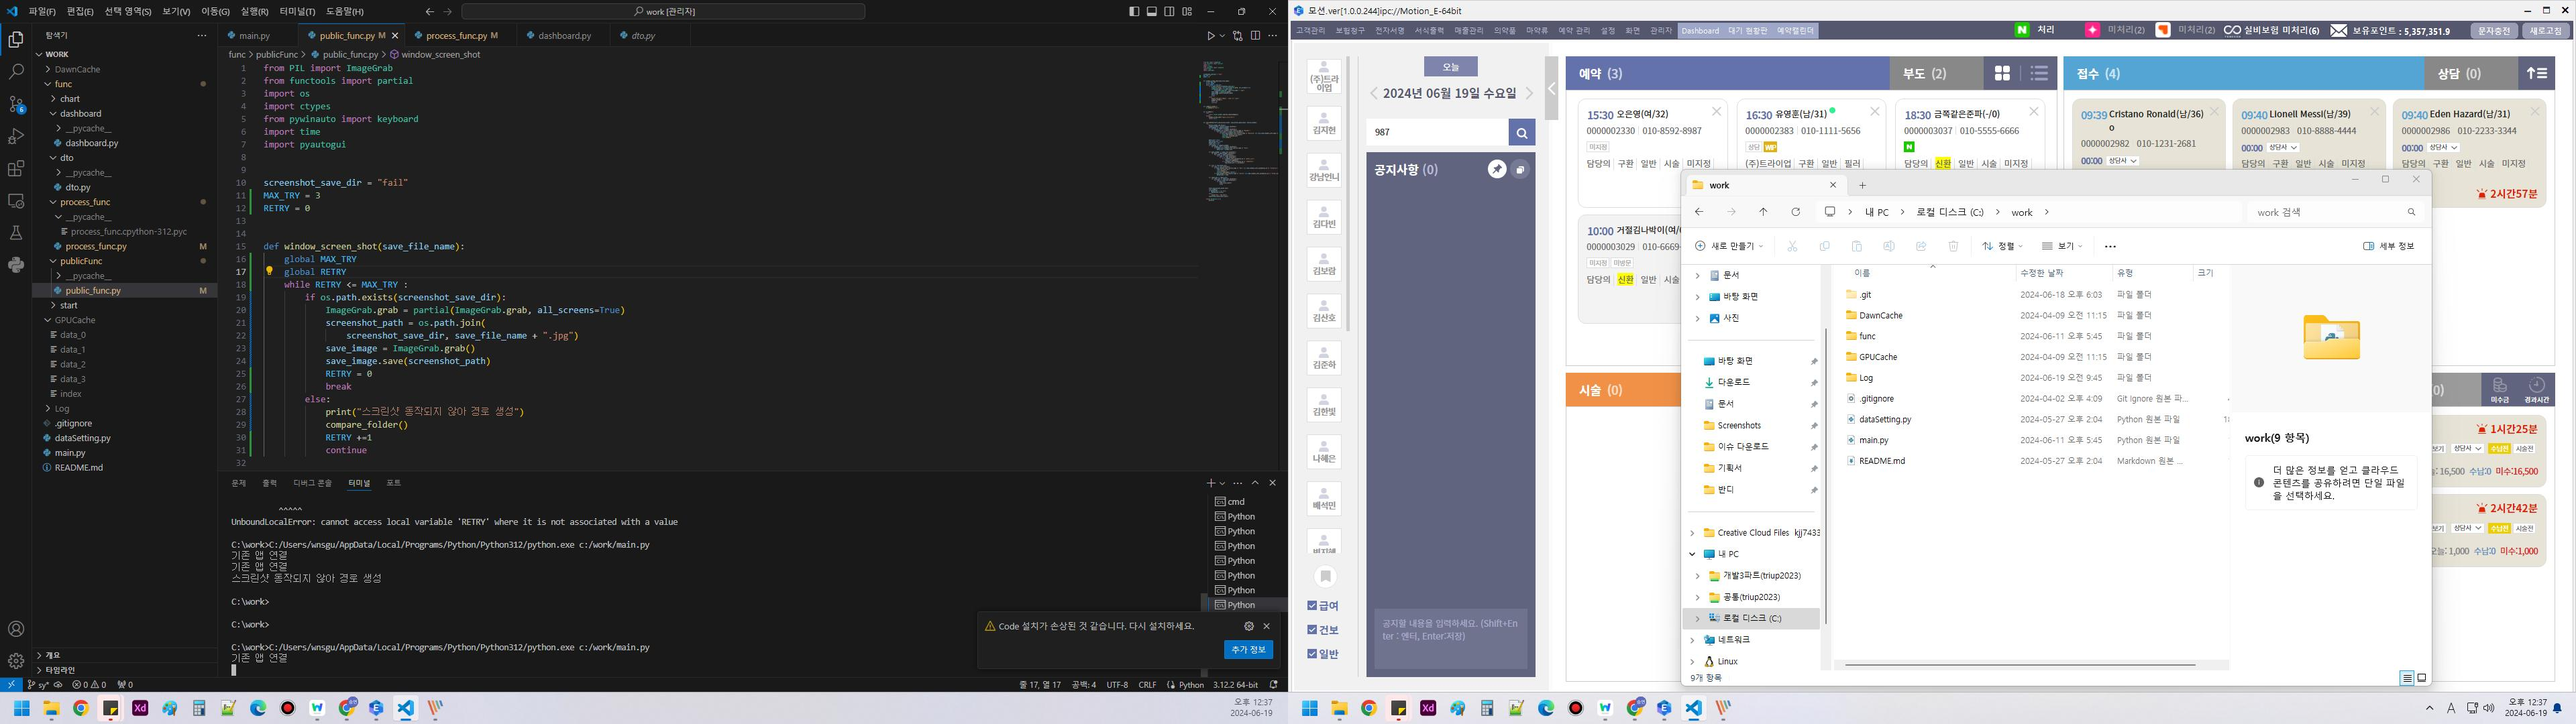
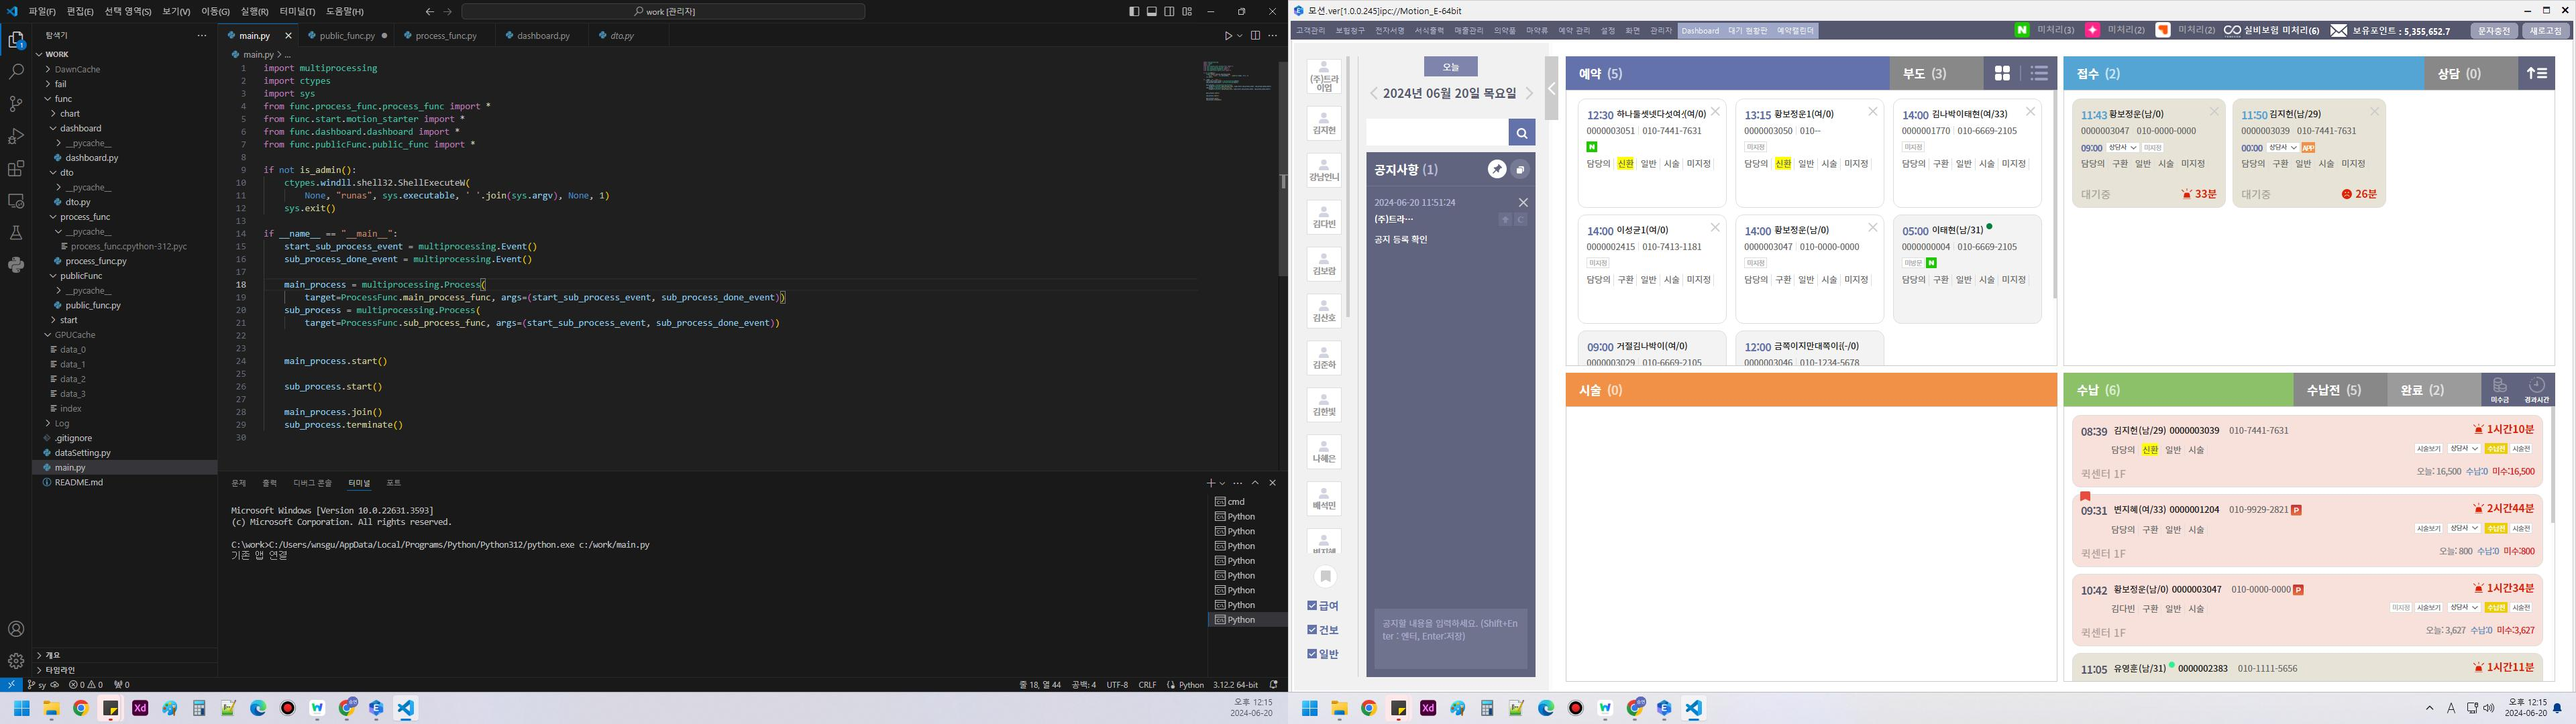
dashboard notice update

diff --git a/func/dashboard/dashboard.py b/func/dashboard/dashboard.py
@@ -13,6 +13,8 @@ class DashBoard():
     """
     RETRIES = 0
     MAX_RETRY = 3
+    notice_content = ["테스트","TEST","CHECK NOTICE"]
+    content_random = random.choice(notice_content)
 
     def dashboard_starter(dto: DashboardDto):
         """
@@ -104,30 +106,20 @@ class DashBoard():
     def notice_create(motion_window):
         try:
             print("공지사항 등록 시작")
-            notice_content = "테스트"
             motion_web_window = motion_window.child_window(
                 class_name="Chrome_RenderWidgetHostHWND", control_type="Document")
             web_window = motion_web_window.children()
             notice_list = []
             for window_group in web_window:
                 if window_group.element_info.control_type == "Document":
-                    window_group
-                    print(window_group.children())
+                    notice_list.append(window_group)
+            notice_view = notice_list[0].children()
             
-            # notice_window = motion_window.child_window(
-            #     auto_id='notice-content', control_type='Edit')
-            # notice_window.wait(wait_for='exists enabled', timeout=30)
-            # notice_window.type_keys(notice_content + "{ENTER}")
-
-            # notice_list = motion_web_window.child_window(
-            #     auto_id="notice-list", control_type="List")
-
-            # for list_item in notice_list.children():
-                
-            #     for item in list_item.children():
-            #         if item.element_info.control_type == "Text" and item.element_info.name == notice_content:
-            #             print("공지등록 완료")
-            # time.sleep(1)
+            for notice_group in notice_view:
+                if notice_group.element_info.control_type == "Edit":
+                    notice_group.set_text(DashBoard.content_random)
+                    keyboard.send_keys("{ENTER}")                    
+            time.sleep(1)
         except Exception as err:
             keyboard.send_keys('{F5}')
             print("공지등록 실패", err)
@@ -137,24 +129,42 @@ class DashBoard():
             print("공시사항 삭제 시작")
             motion_web_window = motion_window.child_window(
                 class_name="Chrome_RenderWidgetHostHWND", control_type="Document")
+            web_window = motion_web_window.children()
+            notice_list = []
+            for window_group in web_window:
+                if window_group.element_info.control_type == "Document":
+                    notice_list.append(window_group)
+            notice_view = notice_list[0].children()
             
-            notice_list = motion_web_window.child_window(
-                auto_id="notice-list", control_type="List")
+            for window_item in notice_view:
+                if window_item.element_info.control_type == "List":
+                    # notice_list.append(window_item)
+                    for list_item in window_item.children():
+                        for select_item in list_item.children():
+                            if select_item.element_info.control_type == "Text" and select_item.element_info.name == DashBoard.content_random:
+                                for delete_item in list_item.children():
+                                    if delete_item.element_info.control_type == "Button" and delete_item.element_info.name == "닫기":
+                                        delete_item.click()
+                        
+                        
+            # notice_list = motion_web_window.child_window(
+            #     auto_id="notice-list", control_type="List")
+            
             
 
-            for list_item in notice_list.children():
-                for item in list_item.children():
-                    if item.element_info.control_type == "Text" and item.element_info.name == "TEST":
-                        for item in list_item.children():
-                            print(item)
-                            if item.element_info.control_type == "Button" and item.element_info.name == "닫기":
-                                item.click()                                               
-                                rad = motion_app.window(auto_id="RadMessageBox")
-                                radBtn = rad.child_window(
-                                auto_id="radButton1", control_type="Button")
-                                radBtn.click()
-                                print("공지사항 삭제 성공")
-                                break
+            # for list_item in notice_list.children():
+            #     for item in list_item.children():
+            #         if item.element_info.control_type == "Text" and item.element_info.name == DashBoard.content_random:
+            #             for item in list_item.children():
+            #                 print(item)
+            #                 if item.element_info.control_type == "Button" and item.element_info.name == "닫기":
+            #                     item.click()                                               
+            #                     rad = motion_app.window(auto_id="RadMessageBox")
+            #                     radBtn = rad.child_window(
+            #                     auto_id="radButton1", control_type="Button")
+            #                     radBtn.click()
+            #                     print("공지사항 삭제 성공")
+            #                     break
             time.sleep(1)                    
         except Exception as err:
             print("공지사항 삭제 실패", err)

diff --git a/func/process_func/process_func.py b/func/process_func/process_func.py
@@ -34,11 +34,13 @@ class ProcessFunc():
         # 서브프로세스 대기용
         dto.sub_process_done_event.wait()
 
-        # ProcessFunc.notice_popup_close(motion_app)
+        ProcessFunc.notice_popup_close(motion_app)
         # user_delete(start_sub_process_event,
         #             sub_process_done_event, motion_window)
         # DashBoard.dashboard_starter(dto)
-        window_screen_shot("FAIL")
+        # window_screen_shot("FAIL")
+        # DashBoard.notice_create(motion_window)
+        DashBoard.notice_delete(motion_window,motion_app)
 
 
     def sub_process_func(start_sub_process_event, sub_process_done_event):
